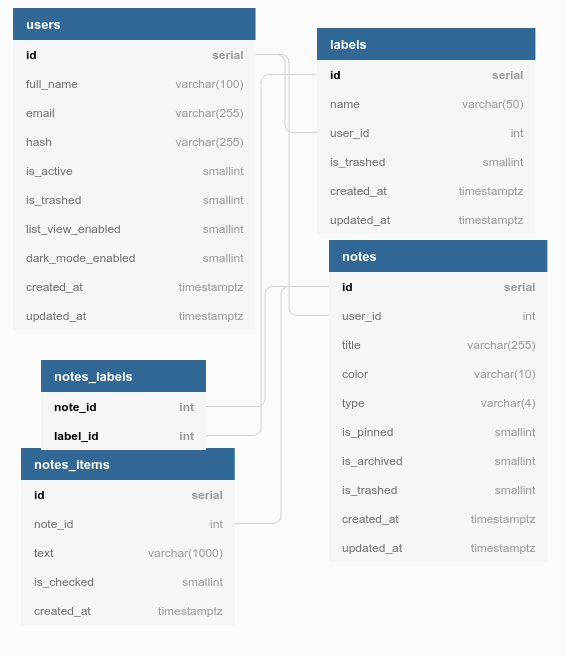
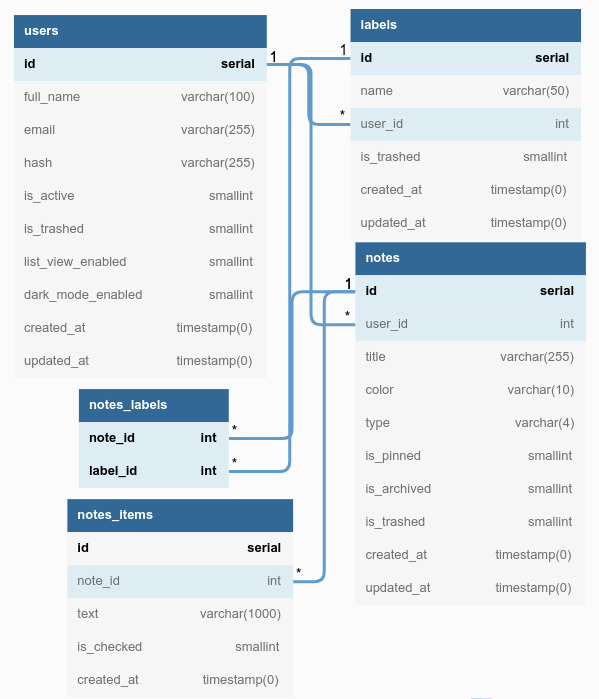
feat: add support for mysql :sparkles:

Changed region(s): [[0.03, 0.0, 0.9912, 0.9771], [0.0601, 0.8244, 0.2403, 0.9771], [0.0601, 0.7939, 0.1201, 0.855]]

diff --git a/cmd/migrate.go b/cmd/migrate.go
@@ -10,6 +10,7 @@ import (
 
 	"github.com/golang-migrate/migrate/v4"
 	"github.com/golang-migrate/migrate/v4/database"
+	"github.com/golang-migrate/migrate/v4/database/mysql"
 	"github.com/golang-migrate/migrate/v4/database/pgx"
 	"github.com/golang-migrate/migrate/v4/database/sqlite3"
 	"github.com/golang-migrate/migrate/v4/source/file"
@@ -91,6 +92,13 @@ func migrateDatabase(state string, step int) error {
 		)
 	case "mysql":
 		driverName = "mysql"
+		dbURL = fmt.Sprintf("%s:%s@tcp(%s:%d)/%s?multiStatements=true",
+			cfg.Database.Username,
+			cfg.Database.Password,
+			cfg.Database.Host,
+			cfg.Database.Port,
+			cfg.Database.Name,
+		)
 	}
 
 	db, err := sql.Open(driverName, dbURL)
@@ -100,17 +108,23 @@ func migrateDatabase(state string, step int) error {
 	defer db.Close()
 
 	var instance database.Driver
-	if dbType == "postgres" {
+	switch dbType {
+	case "postgres":
 		instance, err = pgx.WithInstance(db, &pgx.Config{})
 		if err != nil {
 			return err
 		}
-
-	} else {
+	case "mysql":
+		instance, err = mysql.WithInstance(db, &mysql.Config{})
+		if err != nil {
+			return err
+		}
+	default:
 		instance, err = sqlite3.WithInstance(db, &sqlite3.Config{})
 		if err != nil {
 			return err
 		}
+
 	}
 
 	fSrc, err := (&file.File{}).Open(schemaPath)

diff --git a/infrastructure/db/mysql.go b/infrastructure/db/mysql.go
@@ -3,29 +3,28 @@ package db
 import (
 	"database/sql"
 	"fmt"
-	_ "github.com/jackc/pgx/v4/stdlib"
+	_ "github.com/go-sql-driver/mysql"
 	"github.com/sirupsen/logrus"
 	"librenote/infrastructure/config"
 )
 
 // must call once before server boot to Get() the db instance
-func connectPG() (err error) {
+func connectMysql() (err error) {
 	if dbc.DB != nil {
 		logrus.Info("db already initialized")
 		return nil
 	}
 
 	cfg := config.Get().Database
-	dbURL := fmt.Sprintf("postgres://%s:%s@%s:%d/%s?sslmode=%s",
+	dbURL := fmt.Sprintf("%s:%s@%s:%d/%s",
 		cfg.Username,
 		cfg.Password,
 		cfg.Host,
 		cfg.Port,
 		cfg.Name,
-		cfg.SslMode,
 	)
 
-	db, err := sql.Open("pgx", dbURL)
+	db, err := sql.Open("mysql", dbURL)
 	if err != nil {
 		return fmt.Errorf("unable to connect to database: %v\n", err)
 	}

diff --git a/infrastructure/db/sqlite.go b/infrastructure/db/sqlite.go
@@ -3,11 +3,9 @@ package db
 import (
 	"database/sql"
 	"fmt"
-	"librenote/infrastructure/config"
-	"time"
-
 	_ "github.com/mattn/go-sqlite3"
 	"github.com/sirupsen/logrus"
+	"librenote/infrastructure/config"
 )
 
 // must call once before server boot to Get() the db instance
@@ -33,7 +31,7 @@ func connectSqlite() (err error) {
 	}
 
 	if cfg.Database.MaxLifeTime > 0 {
-		db.SetConnMaxLifetime(cfg.Database.MaxLifeTime * time.Second)
+		db.SetConnMaxLifetime(cfg.Database.MaxLifeTime)
 	}
 
 	dbc.DB = db

diff --git a/infrastructure/db/root.go b/infrastructure/db/root.go
@@ -22,6 +22,11 @@ func Connect() {
 			logrus.Errorln(err)
 			os.Exit(1)
 		}
+	case "mysql":
+		if err := connectMysql(); err != nil {
+			logrus.Errorln(err)
+			os.Exit(1)
+		}
 	default:
 		if err := connectSqlite(); err != nil {
 			logrus.Errorln(err)
